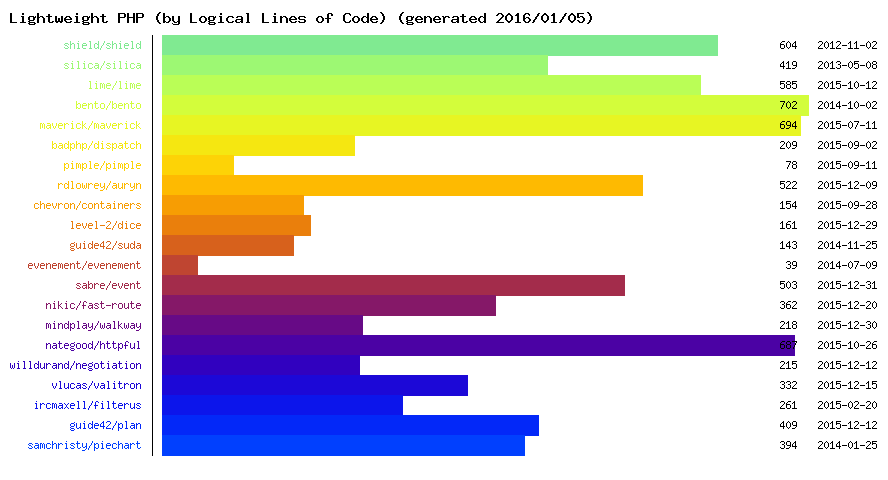
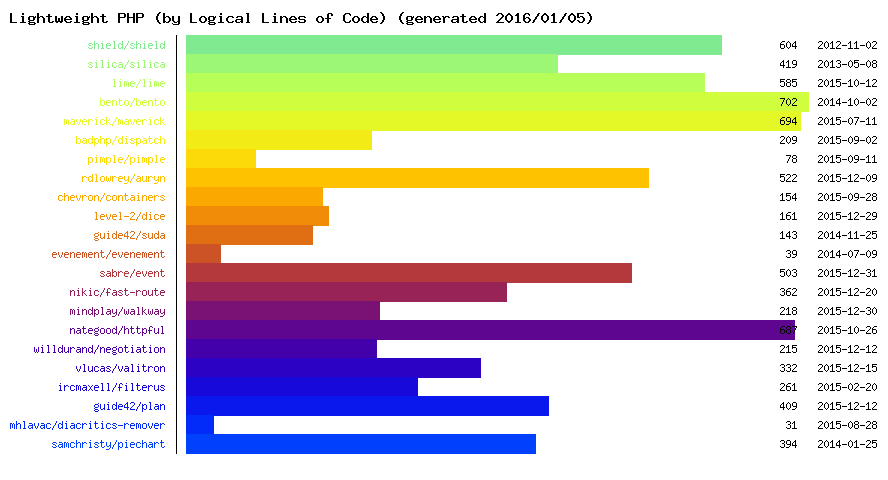
Add mhlavac/diacritics-remover

diff --git a/README.md b/README.md
@@ -51,6 +51,7 @@ List of lightweight PHP libraries.
 * [Valitron](https://github.com/vlucas/valitron) - A simple, elegant, stand-alone validation library
 * [Filterus](https://github.com/ircmaxell/filterus) - A simple filtering library for PHP
 * [Plan](https://github.com/guide42/plan) - Fast and simple validation for PHP
+* [Diacritics Remover](https://github.com/mhlavac/diacritics-remover) - Removes diacritics from strings
 
 ## Graphics
 
